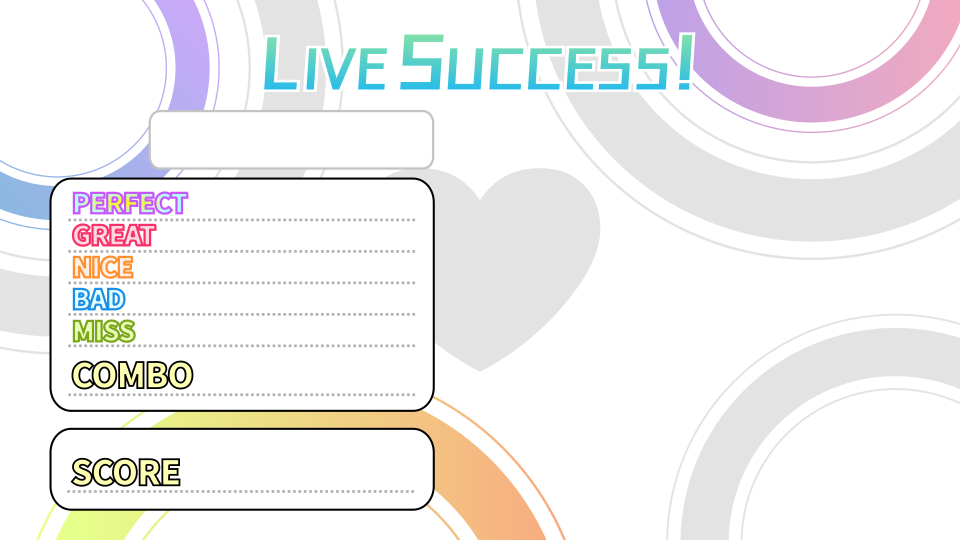
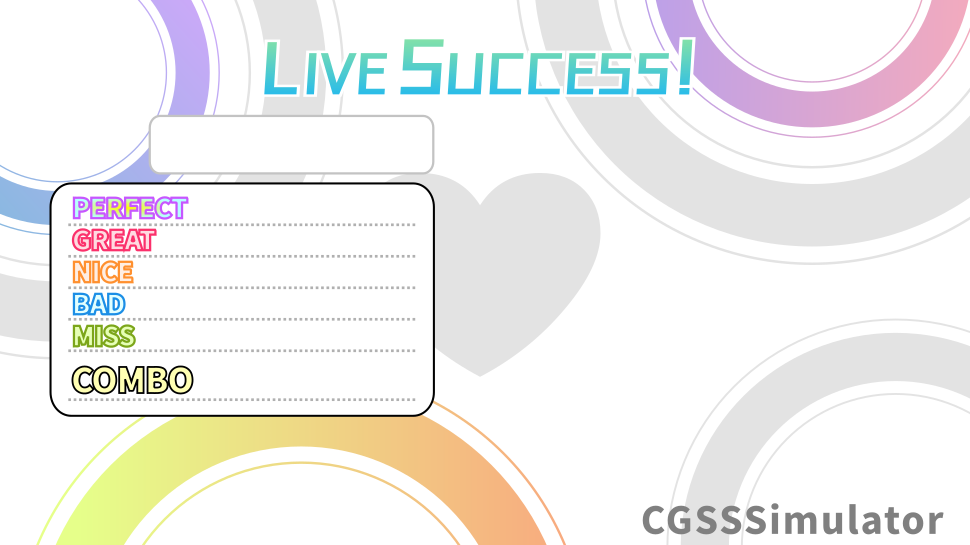
リザルト画像変更

diff --git a/main.js b/main.js
@@ -482,7 +482,7 @@ function onMapLoaded(loader,res){
         .add('tex_judge', 'asset/image/judge.png')
         .add('tex_combo', 'asset/image/combo.png')
         .add('tex_combonum', 'asset/image/combo_number.png')
-        .add('tex_result', 'asset/image/result_c.png')
+        .add('tex_result', 'asset/image/result.png')
         .add('audio_perfect', "asset/sound/perfect.mp3")
         .add('audio_flick', "asset/sound/flick.mp3")
         .add('audio_music', "music/"+res['json_map'].data.music)
